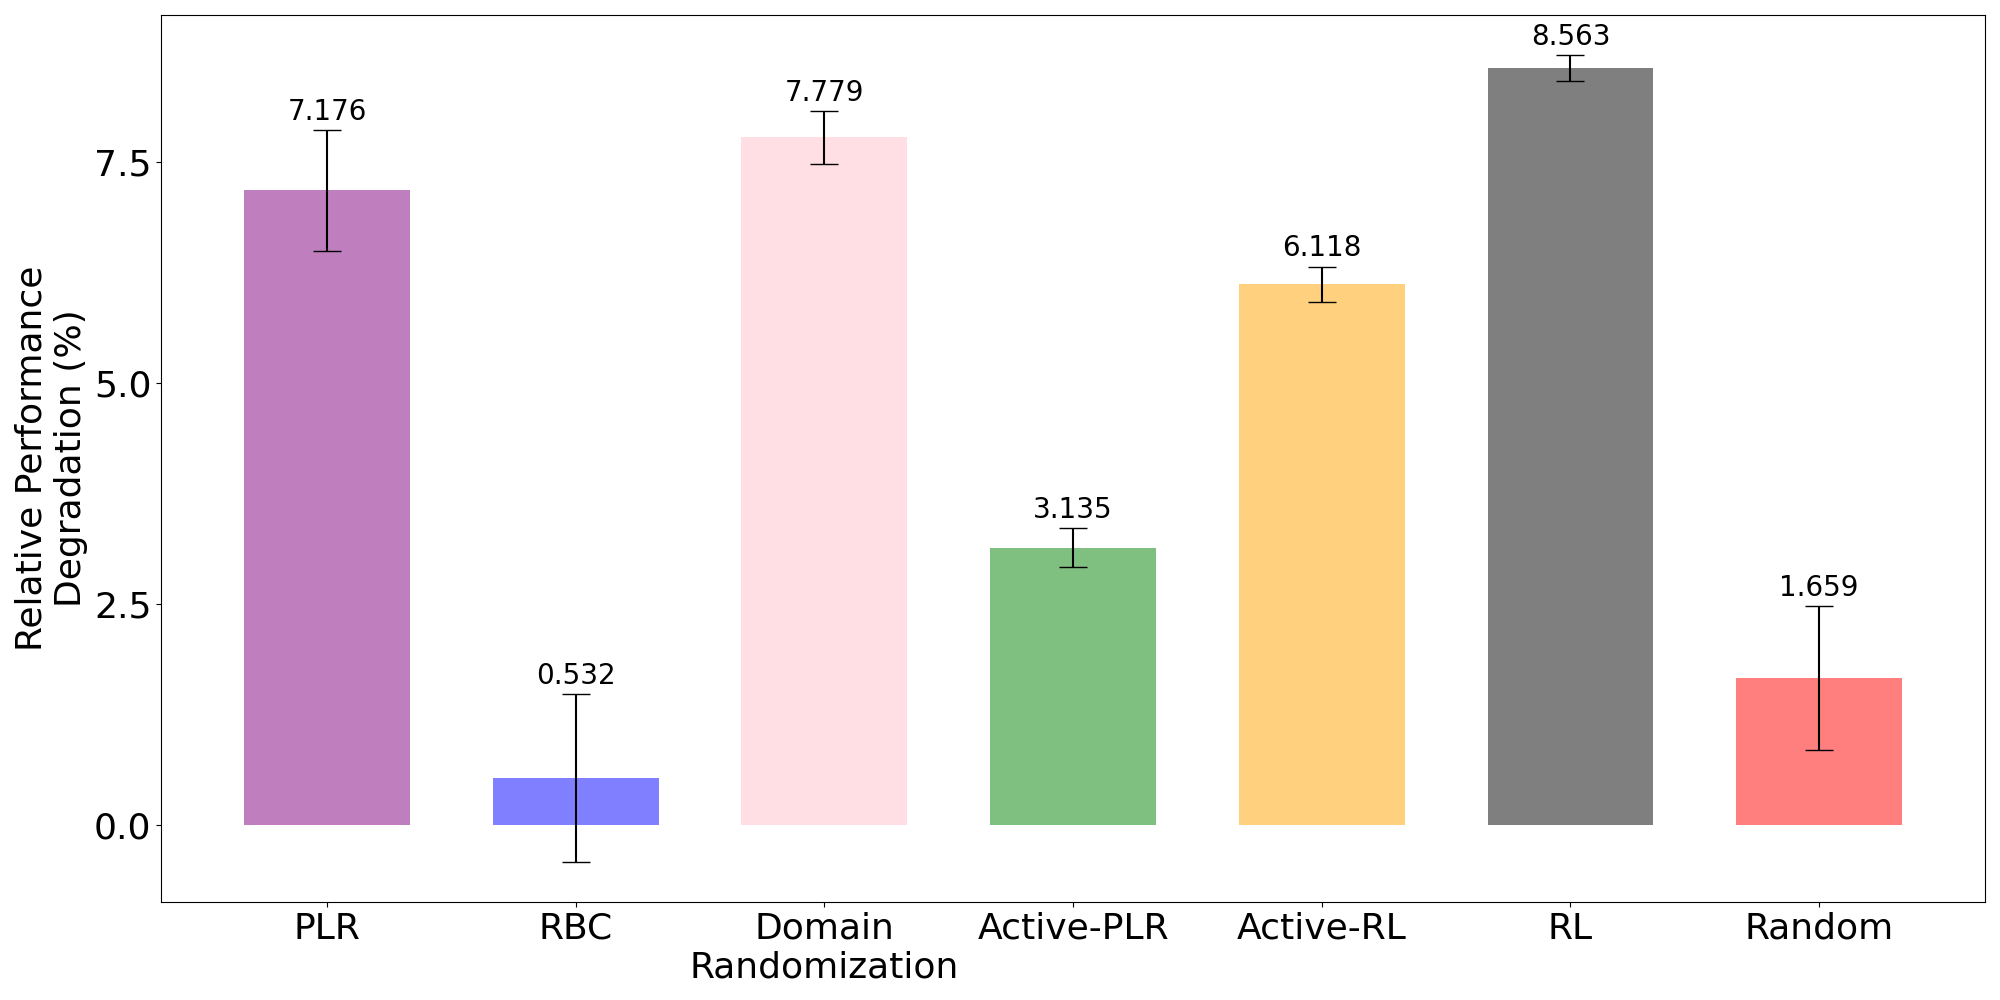
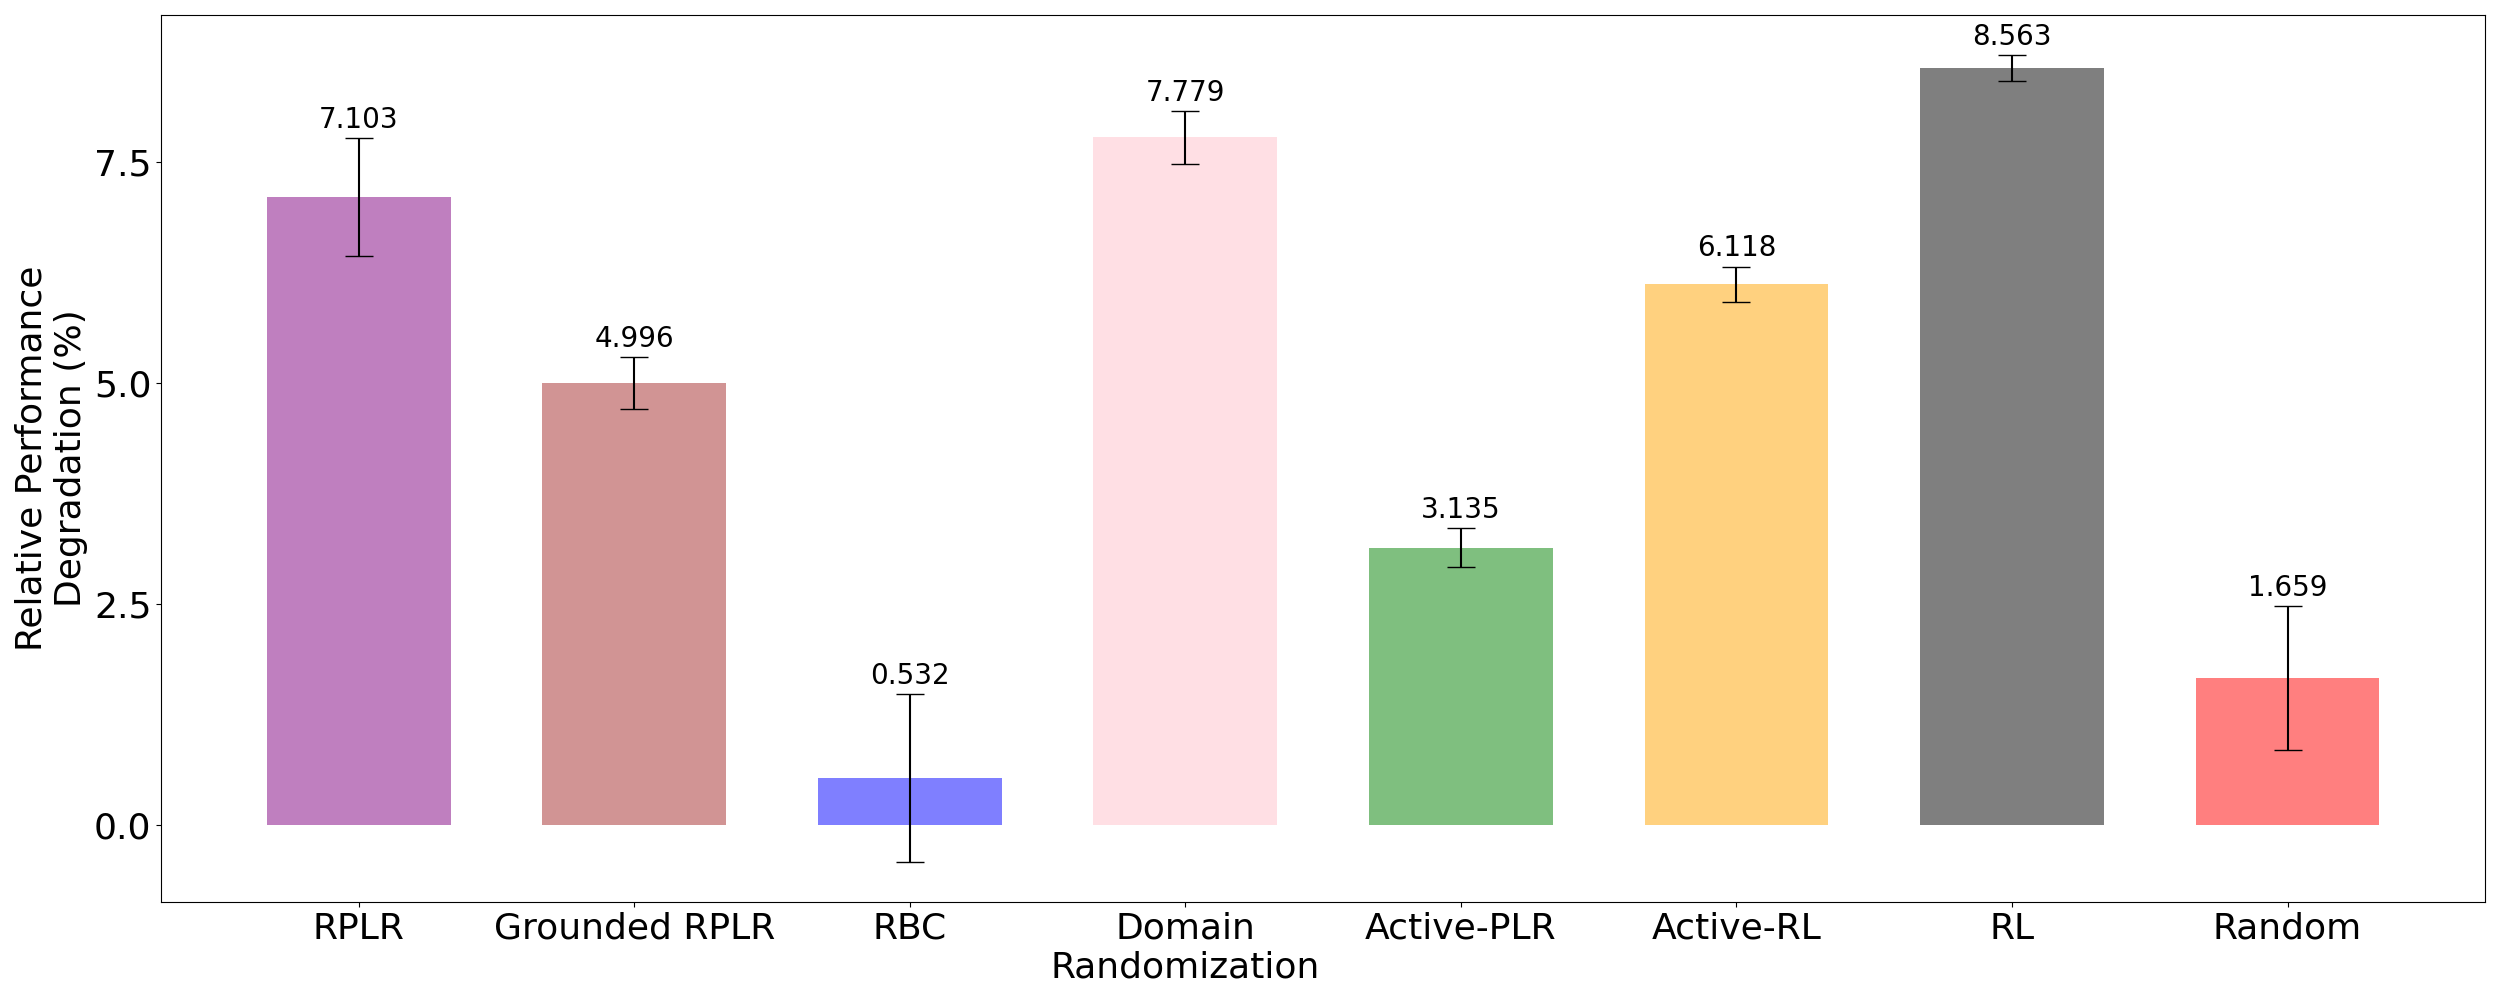
plot sim2real results with RPLR and Grounded RPLR

diff --git a/writeup/utils.py b/writeup/utils.py
@@ -117,13 +117,13 @@ def extract_rew_stats(run_dfs, all_bad_idxs, group=True):
 
 
 def plot_bars(start, rews, bad_idxs, graph_name, only_avg = False, relative=False):
-    plt.figure(figsize=(20, 10))
+    plt.figure(figsize=(25, 10))
     plt.locator_params(axis='y', nbins=5)
     fontsize=26
     all_bad_idxs = set(sum(bad_idxs.values(), []))
     print(all_bad_idxs)
     # drop all bad indexes and sort by index
-    width = 0.125 if not relative else 2
+    width = 0.1 if not relative else 2
     num_tags = len(rews)
     colors = run_queries.COLORS[graph_name]
     labels = run_queries.NAMES[graph_name]
@@ -137,7 +137,9 @@ def plot_bars(start, rews, bad_idxs, graph_name, only_avg = False, relative=Fals
         "results_random": -1.078,
         "results_activeplr": -0.9591,
         "results_activerl": -0.9868,
-        "results_vanilla": -1.036
+        "results_vanilla": -1.036,
+        "results_robust_plr": -1.034,
+        "results_robust_grounded_plr": -0.988
     }
     
     for i, tag in enumerate(rews.keys()):
@@ -214,7 +216,7 @@ def plot_bars(start, rews, bad_idxs, graph_name, only_avg = False, relative=Fals
             xlabels.append(label)
         plt.xticks(xticks, labels=xlabels, fontsize=fontsize)
     else:
-        num_xticks = num_tags if not only_avg else 2
+        num_xticks = len(extreme_env_labels) if not only_avg else 2
         plt.xticks(np.arange(num_xticks), labels=extreme_env_labels[:num_xticks], fontsize=fontsize)
     plt.tick_params(axis='y', labelsize=fontsize)
 

diff --git a/graph_sim2real.py b/graph_sim2real.py
@@ -6,7 +6,8 @@ import time
 import writeup.utils as utils
 from importlib import reload
 run = wandb.init()
-runs = [74]#[64, 65, 67, 66, 68, 72]# [59, 56, 60, 57, 58, 61]
+# insert the ids of the 
+runs = [81]#[74]#[64, 65, 67, 66, 68, 72]# [59, 56, 60, 57, 58, 61]
 for run_id in runs:
     artifact = run.use_artifact(f'doseok/ActiveRL/reward_data:v{run_id}', type='evaluation')
     artifact_dir = artifact.download()
@@ -29,7 +30,7 @@ for run_id in runs:
     if ARTIFACT_TYPE == "scatter":
         utils.plot_scatter(time.perf_counter(), rews, bad_idxs, "median_activerl")
     else:
-        utils.plot_bars(time.perf_counter(), rews, bad_idxs, "results", only_avg=False, relative=False)
+        utils.plot_bars(time.perf_counter(), rews, bad_idxs, "results", only_avg=False, relative=True)
 
 # %%
 
